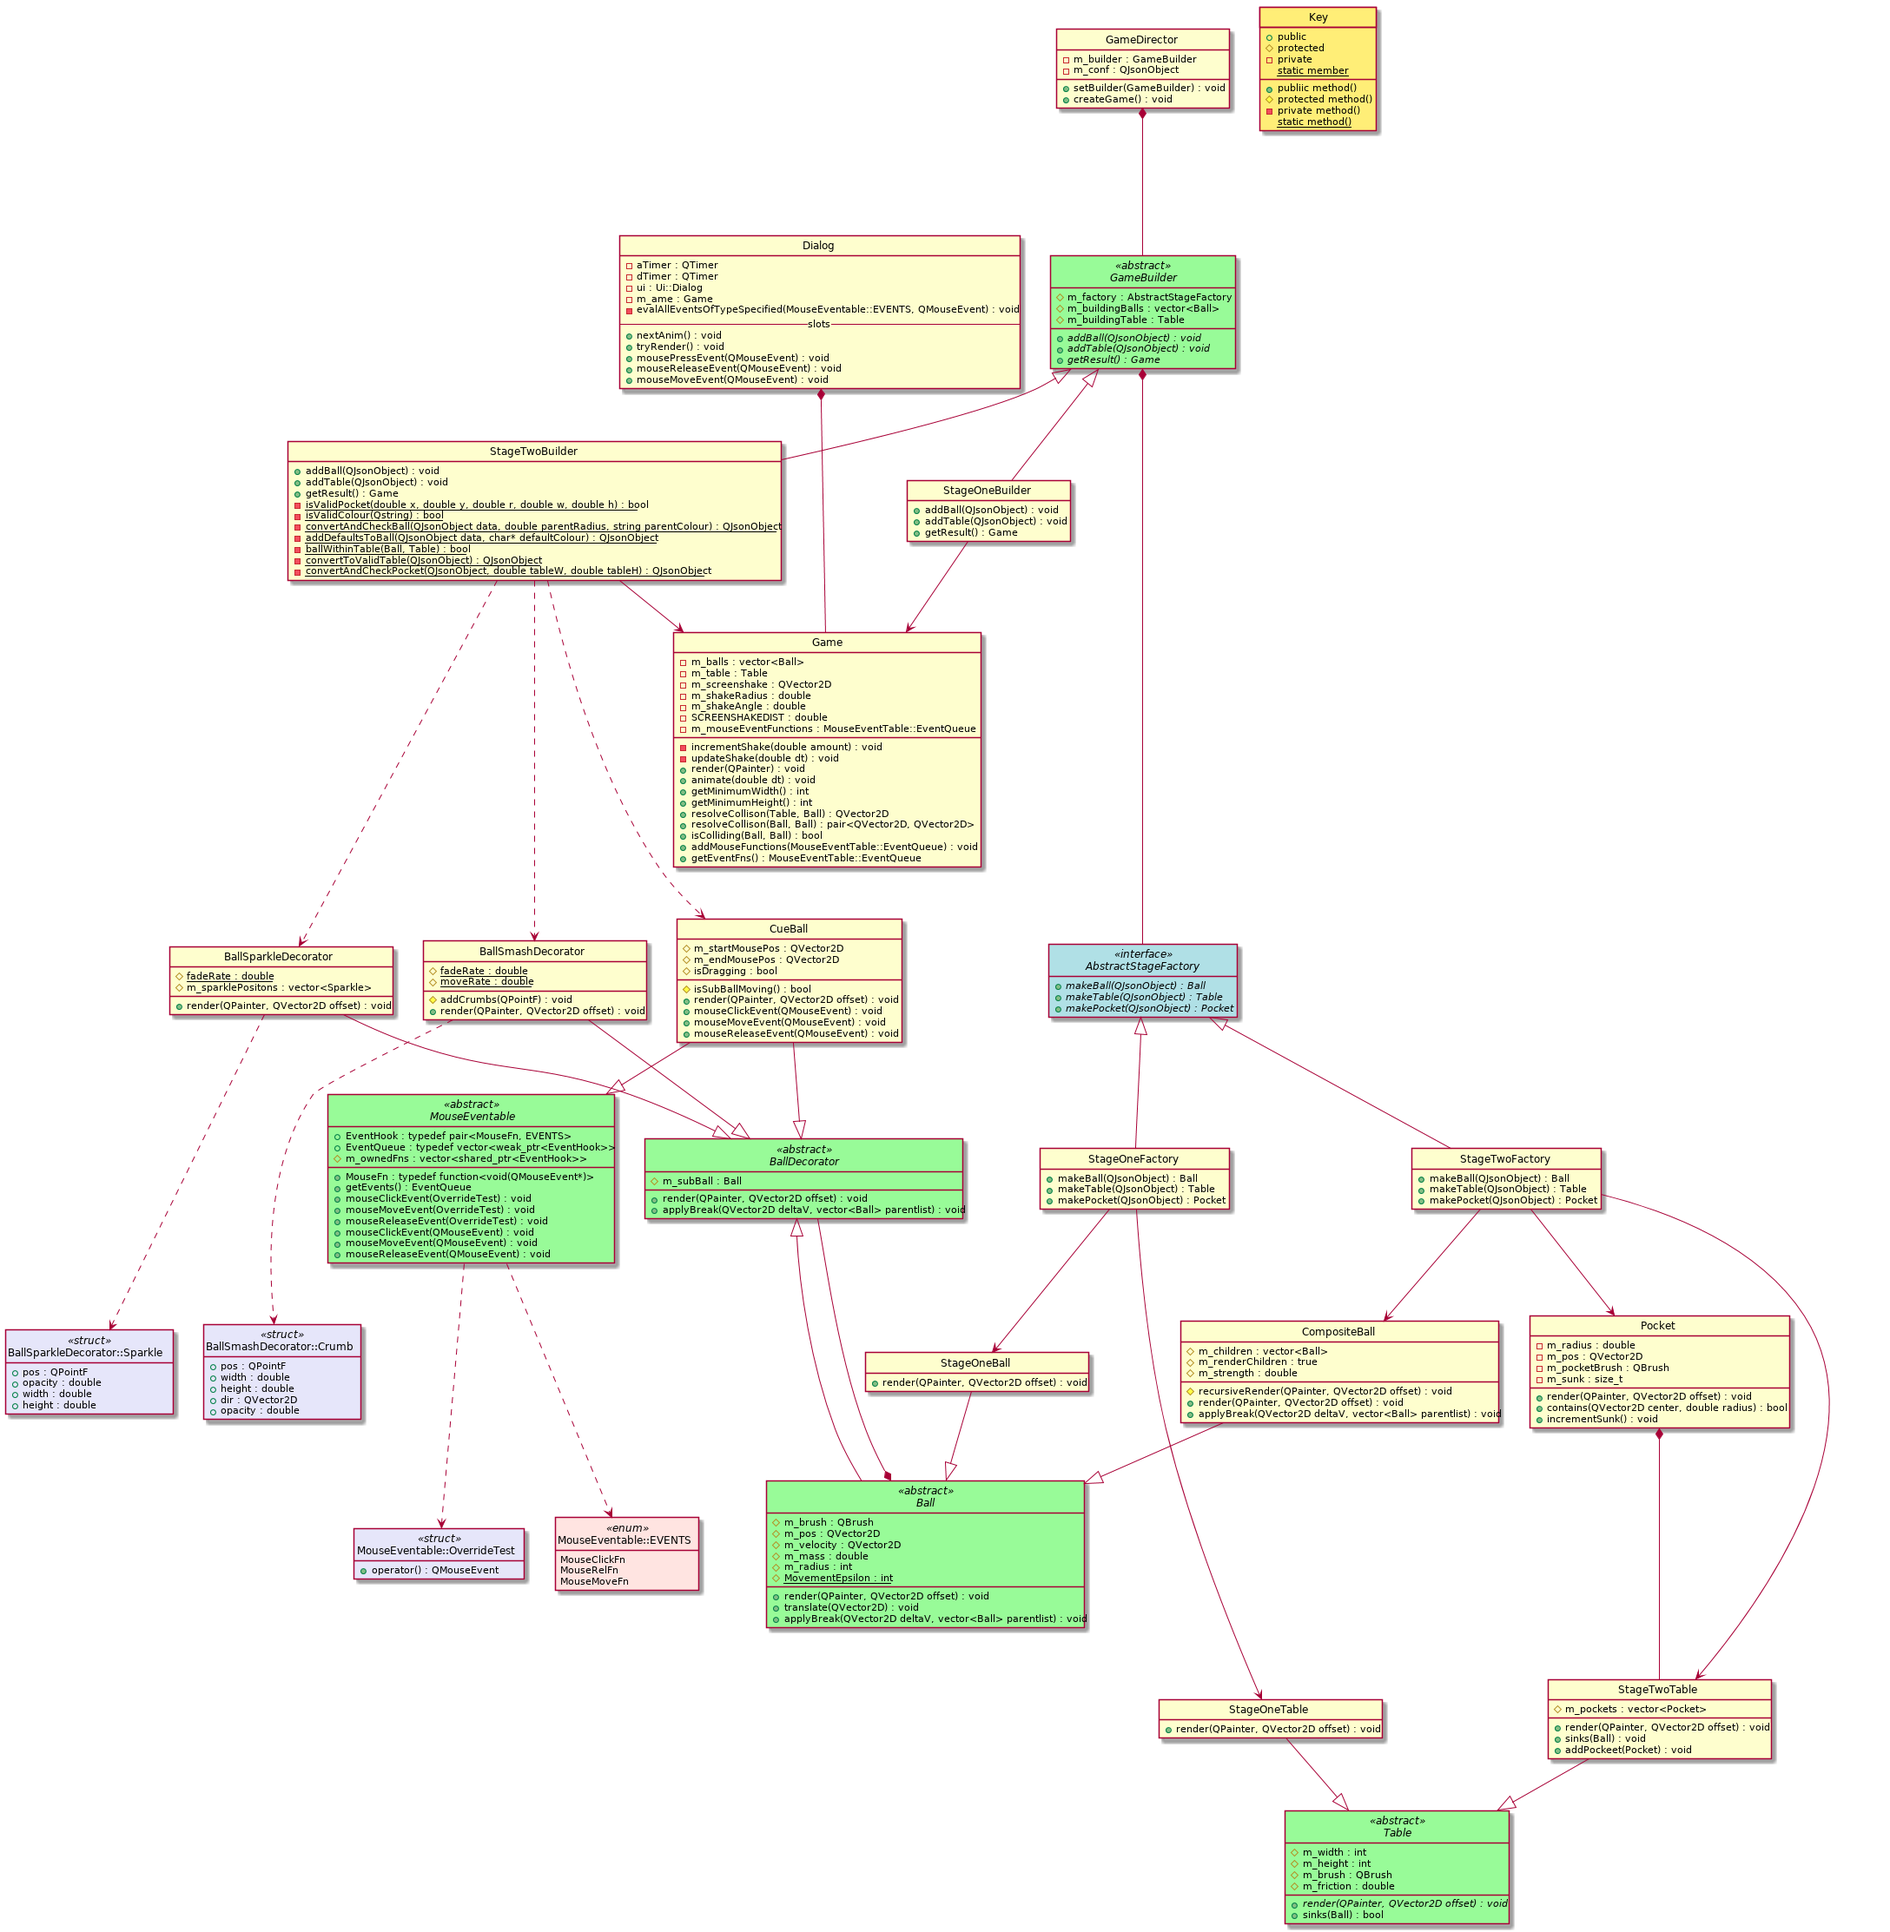
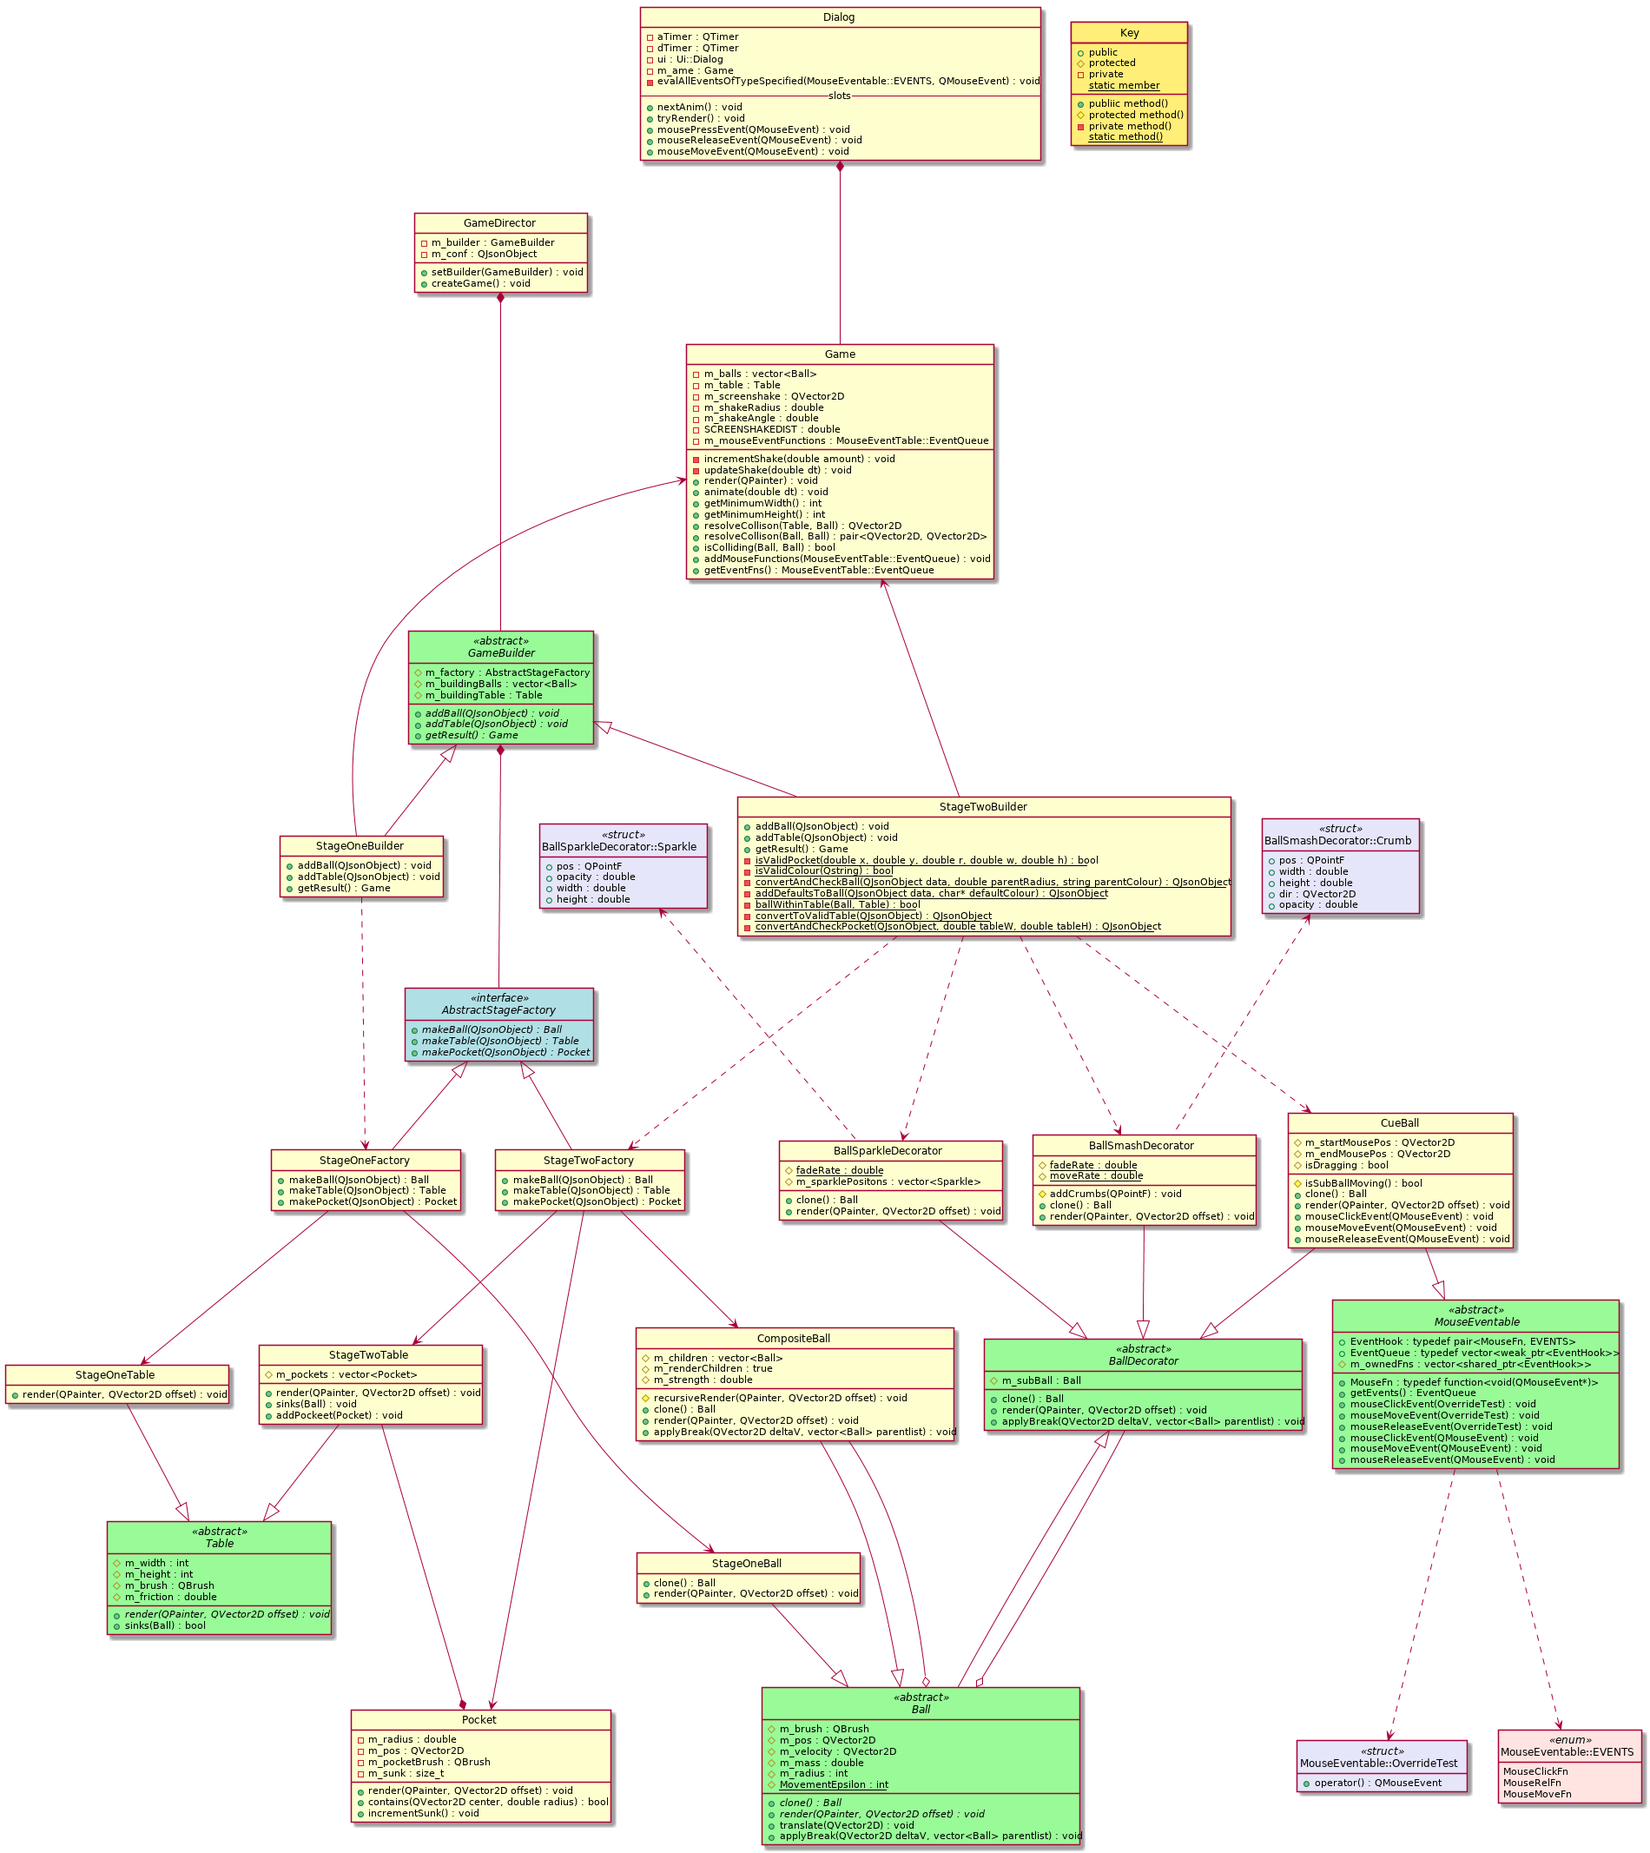
ball prototpe

diff --git a/Poolgame/balldecorator.h b/Poolgame/balldecorator.h
@@ -14,6 +14,7 @@ protected:
     Ball* m_subBall;
 public:
     BallDecorator(Ball* b) : m_subBall(b) {}
+	virtual Ball* clone() const override { return new BallDecorator(this->m_subBall->clone()); }
     virtual ~BallDecorator() { delete m_subBall; }
     // mess of forwarded requests
     // is this the downside of a decorator..?
@@ -51,6 +52,12 @@ protected:
 
 public:
     CueBall(Ball* b) : BallDecorator(b), MouseEventable(this) {}
+	Ball* clone() const override {
+		CueBall* b = new CueBall(this->m_subBall->clone());
+		b->m_startMousePos = this->m_startMousePos;
+		b->m_endMousePos = this->m_endMousePos;
+		return b;
+	}
     ~CueBall() {}
 
     /**
@@ -103,13 +110,18 @@ protected:
     std::vector<Sparkle> m_sparklePositions;
 public:
     BallSparkleDecorator(Ball* b) : BallDecorator(b) {}
+	Ball* clone() const override {
+		auto* b = new BallSparkleDecorator(*this);
+		b->m_sparklePositions = this->m_sparklePositions;
+		return b;
+	}
 
     /**
      * @brief render - draw the underlying ball and also the sparkles
      * @param painter - the brush to use to draw
      * @param offset - the offset that this ball is from the origin
      */
-    void render(QPainter &painter, const QVector2D &offset);
+	void render(QPainter &painter, const QVector2D &offset) override;
 };
 
 class BallSmashDecorator : public BallDecorator {
@@ -134,6 +146,11 @@ protected:
     void addCrumbs(QPointF cPos);
 public:
     BallSmashDecorator(Ball* b) : BallDecorator(b) {}
+	Ball* clone() const override {
+		auto* b = new BallSmashDecorator(this->m_subBall->clone());
+		b->m_crumbs = this->m_crumbs;
+		return b;
+	}
 
     /**
      * @brief changeVelocity - set the velocity of the ball, as well as generate particles (if applicable)

diff --git a/Poolgame/ball.h b/Poolgame/ball.h
@@ -22,6 +22,7 @@ public:
         m_brush(colour), m_pos(position), m_velocity(velocity),
         m_mass(mass), m_radius(radius) {}
     Ball() {}
+	virtual Ball* clone() const = 0;
 
     /**
      * @brief render - draw the ball to the screen
@@ -50,6 +51,7 @@ public:
     virtual double getMass() const { return m_mass; }
     virtual double getRadius() const { return m_radius; }
     virtual QVector2D getPosition() const { return m_pos; }
+	virtual const QColor& getColour() const { return m_brush.color(); }
     virtual void setPosition(QVector2D p) { m_pos = p; }
 
     // whether the ball will break, and handle accordingly
@@ -67,6 +69,7 @@ public:
      * @param painter - QPainter that is owned by the dialog
      */
     void render(QPainter &painter, const QVector2D& offset) override;
+	Ball* clone() const override { return new StageOneBall(*this); }
 };
 
 class CompositeBall : public Ball {
@@ -80,6 +83,12 @@ public:
     CompositeBall(QColor colour, QVector2D position,
                  QVector2D velocity, double mass, int radius, double strength) :
         Ball(colour, position, velocity, mass, radius), m_strength(strength) { }
+	Ball* clone() const override {
+		auto* b = new CompositeBall(*this);
+		for (auto it = b->m_children.begin(); it != b->m_children.end(); ++it)
+			*it = (*it)->clone();
+		return b;
+	}
 
     /**
      * @brief render - draw the ball to the screen
